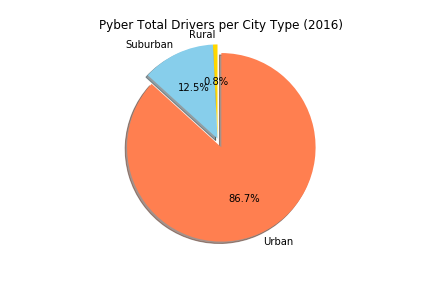
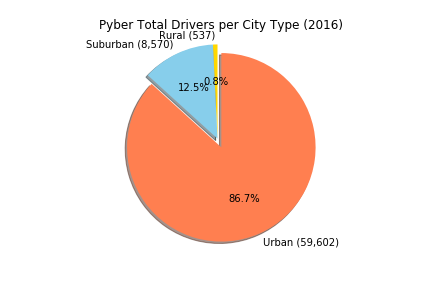
Add files via upload

Changed region(s): [[0.1806, 0.0938, 0.5116, 0.1875], [0.6019, 0.8125, 0.7824, 0.875]]

diff --git a/Pyber.py b/Pyber.py
@@ -22,7 +22,6 @@ ride=ride.merge(city, how="left", on="city")
 ride.head()
 
 
-
 # Obtain the x and y coordinates for each of the three city types
 ## Obtaining the Total Number of rides per city types 
 tRide=pd.DataFrame(ride.groupby(["type", "city"]).count()["ride_id"]).reset_index()
@@ -78,15 +77,17 @@ plt.show()
 ##### Total Fares by City Type
 # Calculate Type Percents
 ride["ride"]=1
-piDB=pd.DataFrame(ride.groupby("type").sum()[["fare", "driver_count", "ride"]]).reset_index()
+piDB_fare=pd.DataFrame(ride.groupby("type").sum()[["fare"]]).reset_index()
 # Build Pie Chart
 explode=[]
-for ex in piDB["fare"]:
-    if (ex==max(piDB["fare"])):
+for ex in piDB_fare["fare"]:
+    if (ex==max(piDB_fare["fare"])):
         explode.append(0.1)
     else:
         explode.append(0)
-plt.pie(piDB["fare"], explode=explode, labels=piDB["type"], colors=colors["color"],
+plt.pie(piDB_fare["fare"], explode=explode,
+        labels=piDB_fare["type"]+" ("+pd.DataFrame(piDB_fare)["fare"].map("{:,.0f}".format).map(str)+")",
+        colors=colors["color"],
         autopct="%1.1f%%", shadow=True, startangle=90)
 plt.axis("equal")
 plt.title("Pyber Ride's Total Fare (2016)")
@@ -97,14 +98,17 @@ plt.savefig("Pyber_farePie.png")
 
 ## Total Rides Per City Type
 # Calculate Ride Percents
+piDB_ride=pd.DataFrame(ride.groupby("type").sum()[["ride"]]).reset_index()
 # Build Pie Chart
 explode=[]
-for ex in piDB["ride"]:
-    if (ex==max(piDB["ride"])):
+for ex in piDB_ride["ride"]:
+    if (ex==max(piDB_ride["ride"])):
         explode.append(0.1)
     else:
         explode.append(0)
-plt.pie(piDB["ride"], explode=explode, labels=piDB["type"], colors=colors["color"],
+plt.pie(piDB_ride["ride"], explode=explode,
+        labels=piDB_ride["type"]+" ("+pd.DataFrame(piDB_ride)["ride"].map("{:,.0f}".format).map(str)+")",
+        colors=colors["color"],
         autopct="%1.1f%%", shadow=True, startangle=90)
 plt.axis("equal")
 plt.title("Pyber Total Rides (2016)")
@@ -112,19 +116,24 @@ plt.show()
 # Save Figure
 plt.savefig("Pyber_raidsPie.png")
 
-## Total Rides Per City Type
+## Total Drivers Per City Type
 # Calculate Ride Percents
+piDB_driver=pd.DataFrame(ride.groupby(["city","type"]).mean()[["driver_count"]]).reset_index()
+piDB_driver=pd.DataFrame(ride.groupby("type").sum()[["driver_count"]]).reset_index()
+
 # Build Pie Chart
 explode=[]
-for ex in piDB["ride"]:
-    if (ex==max(piDB["ride"])):
+for ex in piDB_driver["driver_count"]:
+    if (ex==max(piDB_driver["driver_count"])):
         explode.append(0.1)
     else:
         explode.append(0)
-plt.pie(piDB["ride"], explode=explode, labels=piDB["type"], colors=colors["color"],
+plt.pie(piDB_driver["driver_count"], explode=explode,
+        labels=piDB_driver["type"]+" ("+pd.DataFrame(piDB_driver)["driver_count"].map("{:,.0f}".format).map(str)+")",
+        colors=colors["color"],
         autopct="%1.1f%%", shadow=True, startangle=90)
 plt.axis("equal")
-plt.title("Pyber Total Rides (2016)")
+plt.title("Pyber Total Drivers per City Type (2016)")
 plt.show()
 # Save Figure
-plt.savefig("Pyber_farePie.png")
+plt.savefig("Pyber_driverPie.png")
